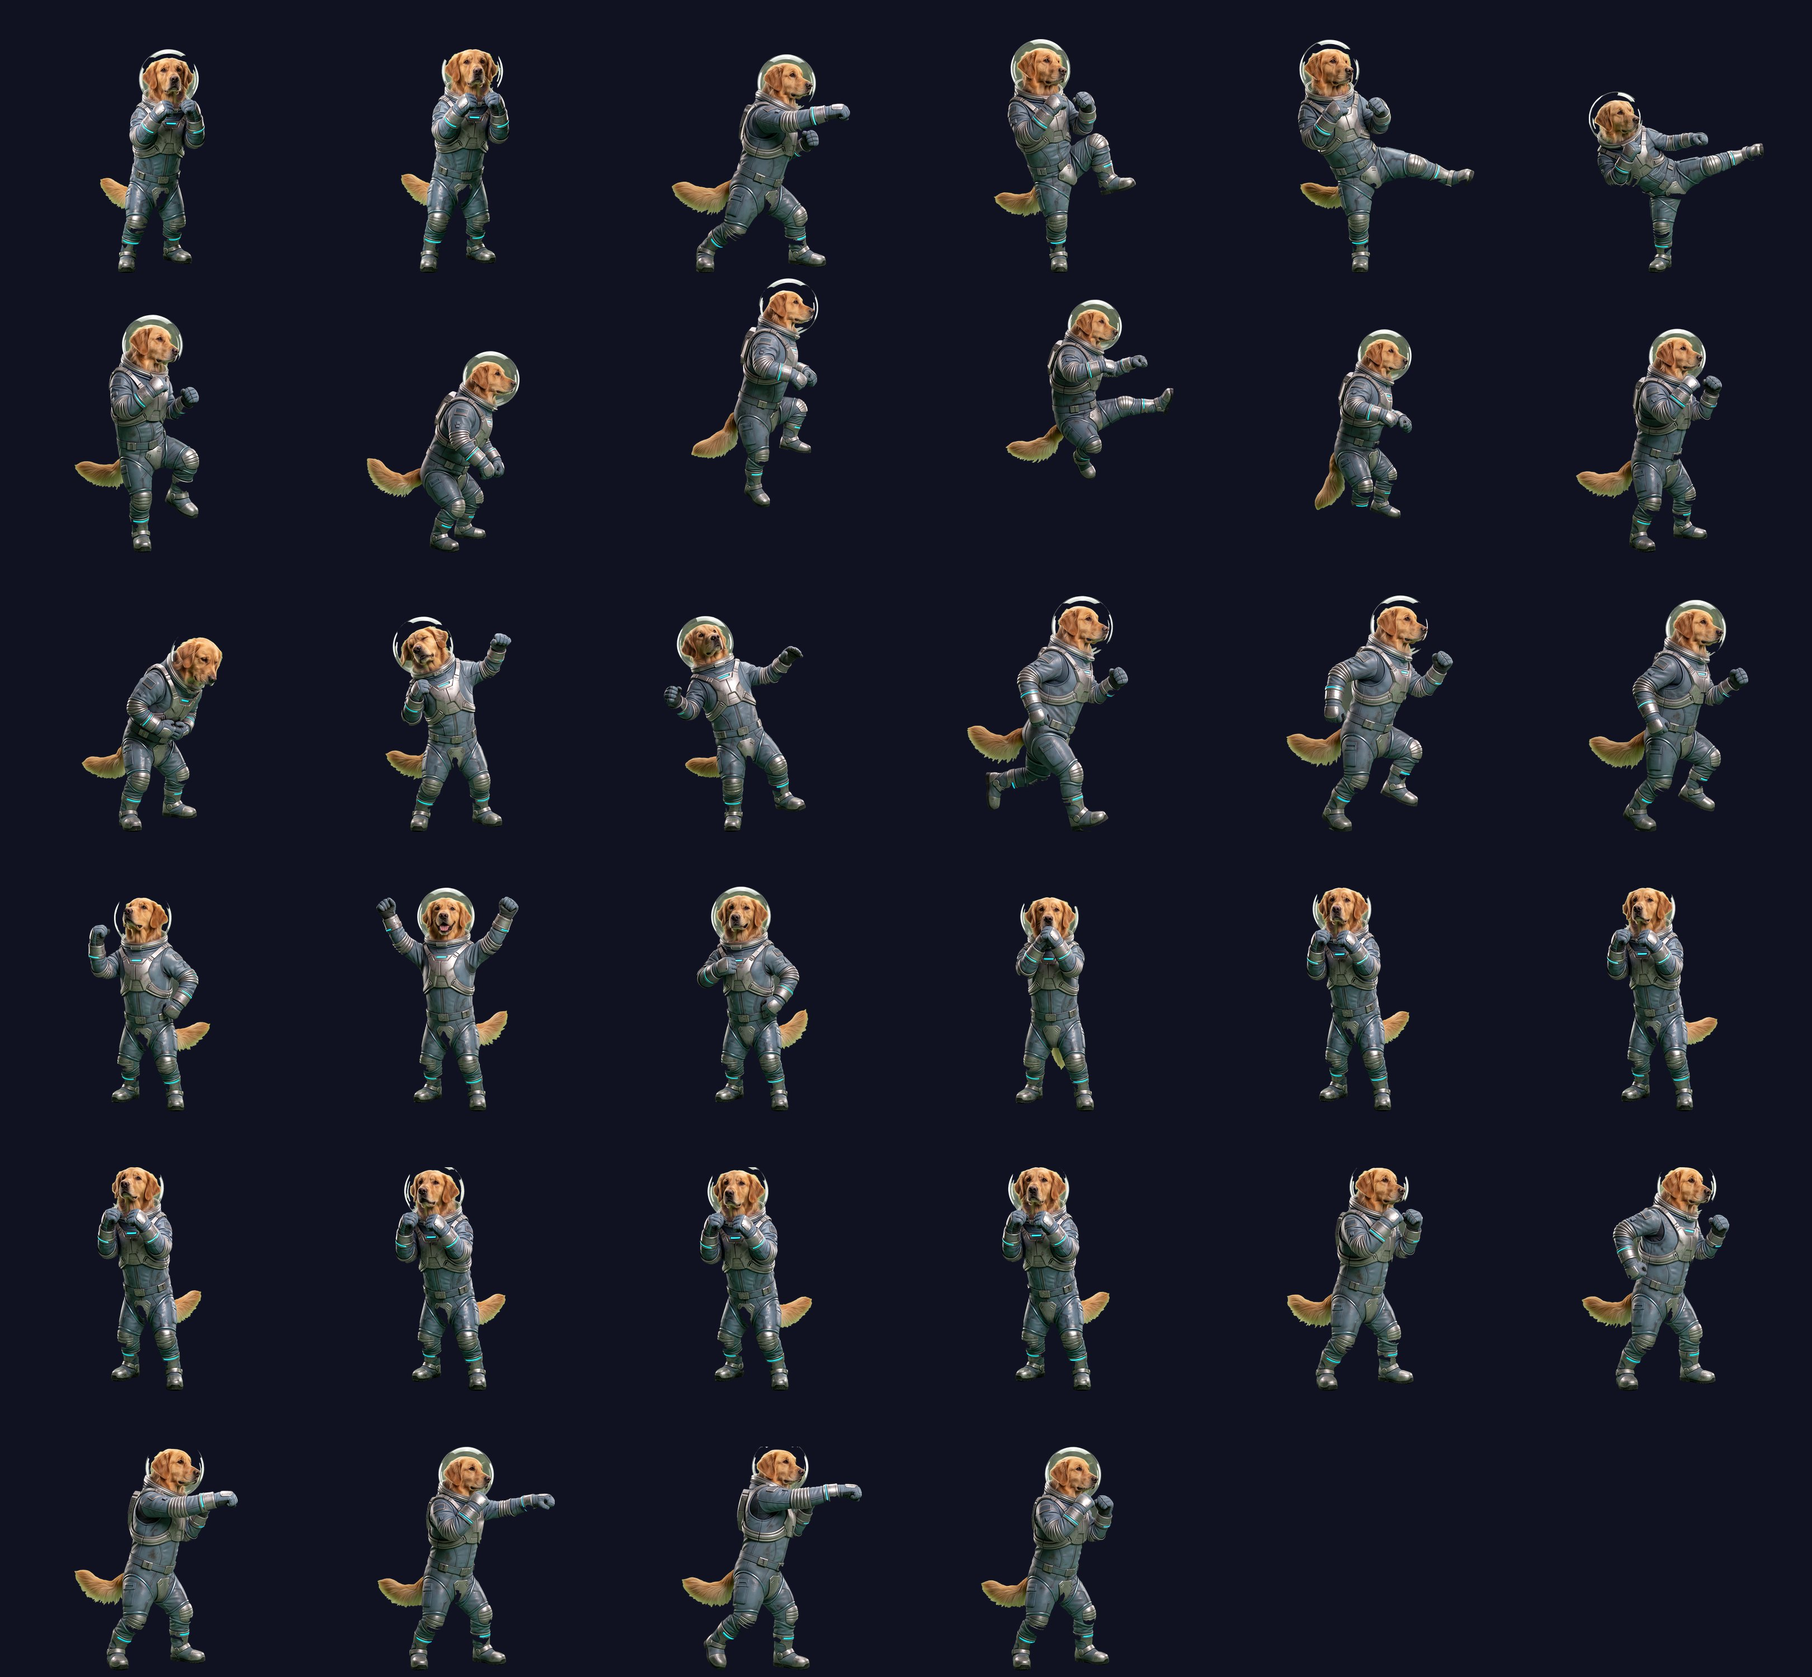
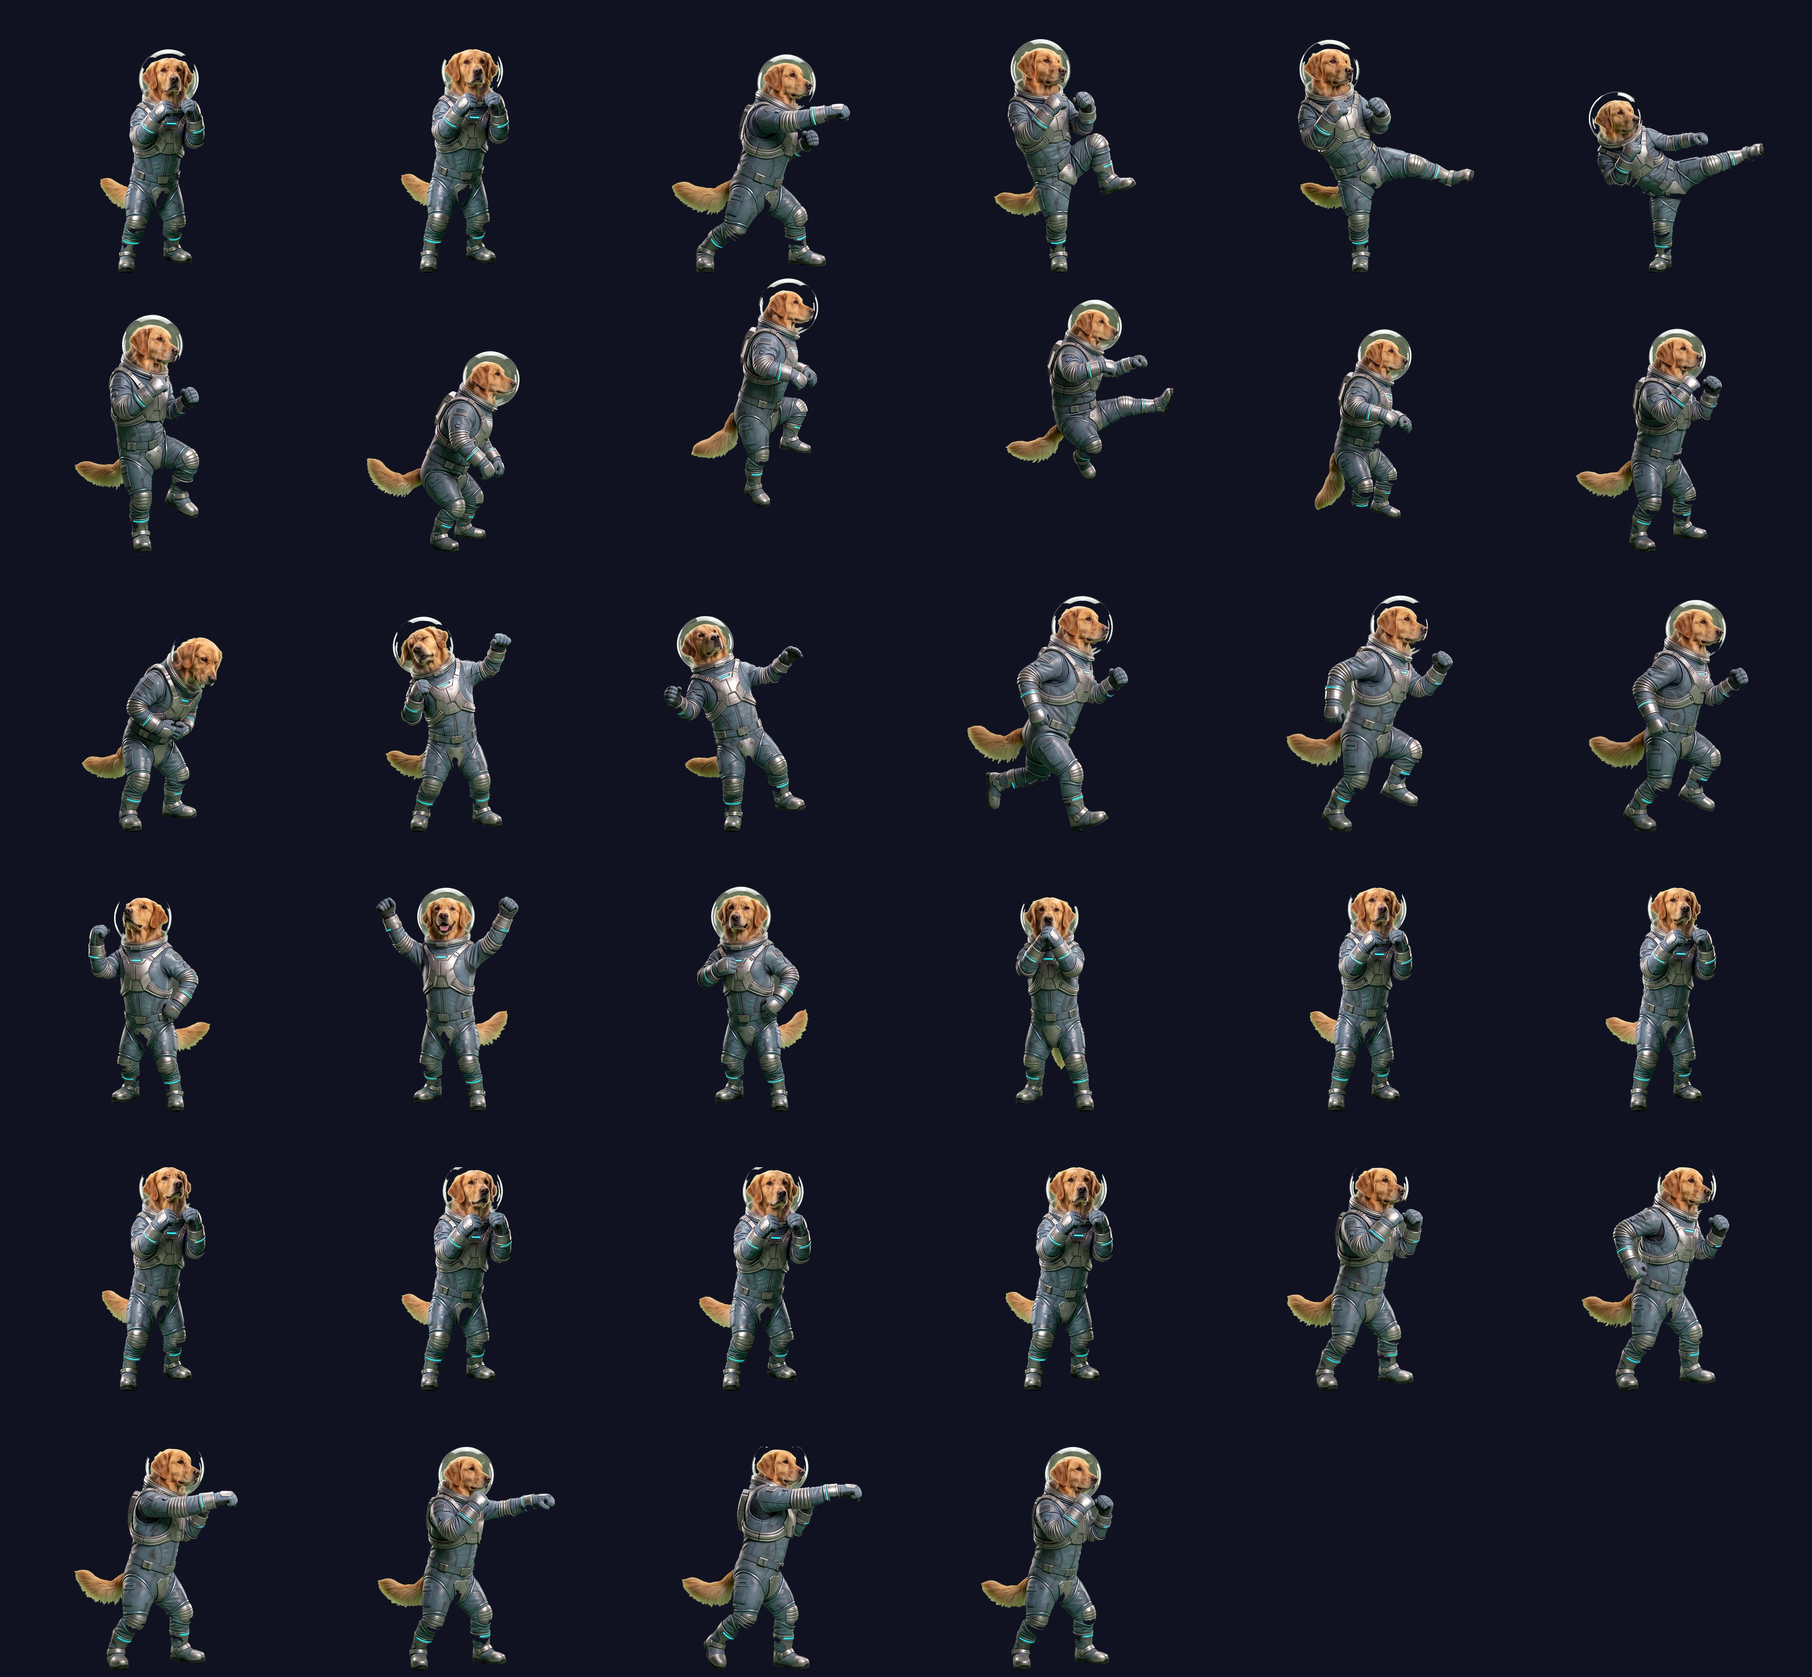
fix(battle-3d): 우주 강아지가 대기 중 보스를 등지던 문제 — idle 프레임 22~27 좌우반전
게임의 대기 상태(attachSpriteBillboard 의 IDLE=[22..27])가 쓰는 프레임은 2차로 추가한
idle 슬로모 시트에서 나오는데, 이 시트만 강아지가 왼쪽(보스 반대편)을 보고 있었다.
기존 flips 는 예전 idle 이던 0·1 만 뒤집고 있어 22~27 은 그대로 통과 → 대기 중 등짐.

- build-real-hero-atlas.py: dog flips 에 22~27 추가 후 dog-real.webp 재생성
- battle-3d.html: dog 스프라이트 ?v=2 → ?v=3 (캐시 갱신)

검증: 아틀라스 프레임 22~27 꼬리 위치가 punch(28~33)와 같은 왼쪽으로 뒤집힘 확인 /
      로컬 :8153 실렌더 캡처에서 강아지가 몸을 오른쪽(보스)으로 향함 /
      npx tsc --noEmit 통과 / test-harness/run.mjs --fast 52 PASS 0 FAIL

diff --git a/cloudflare-deploy/public/battle-3d.html b/cloudflare-deploy/public/battle-3d.html
@@ -659,7 +659,7 @@
       // ⚠ 아틀라스 레이아웃(5x5→6x6)이 바뀌면 ?v= 를 반드시 올릴 것. 안 올리면 기존 사용자가 옛 아틀라스에
       //   새 UV 좌표를 써서 캐릭터가 통째로 깨진다(잘린 몸/엉뚱한 포즈).
       boy: { sprite:'astro-real.webp?v=2', ico:'🧑🚀', name:'우주 소년', desc:'실사 우주비행사 파이터', tint:[1.18,1.16,1.16] },   // 차콜 수트라 어두운 우주에 묻히지 않게 살짝만 리프트
-      dog: { sprite:'dog-real.webp?v=2',   ico:'🐶',        name:'우주 강아지', desc:'실사 우주복 리트리버', tint:[1.10,1.09,1.11] }
+      dog: { sprite:'dog-real.webp?v=3',   ico:'🐶',        name:'우주 강아지', desc:'실사 우주복 리트리버', tint:[1.10,1.09,1.11] }   // v=3: 대기 프레임(22~27)이 보스 반대편을 보던 것 좌우반전
     };
     var heroSkin=(function(){ try{ var v=localStorage.getItem('mangoi_battle_hero'); return (v==='dog'||v==='boy')?v:'boy'; }catch(e){ return 'boy'; } })();
     /* 👾 보스 선택 — 문어 괴물 / 티라노 공룡. 시작 화면에서 고르면 저장되고 다음 스폰부터 적용. attachBossSprite(cfg) 용 전체 설정 포함 */

diff --git a/cloudflare-deploy/build-real-hero-atlas.py b/cloudflare-deploy/build-real-hero-atlas.py
@@ -1,0 +1,280 @@
+"""
+🎬 실사(영화풍) 히어로 아틀라스 빌더 — Higgsfield(nano_banana_pro) 생성 그린스크린 3x2 시트 5장 → 5x5 22프레임 아틀라스
+
+카툰판 build-astro-atlas.py 와 '아틀라스 레이아웃/프레임 순서'는 완전히 동일하다.
+battle-3d.html 의 attachSpriteBillboard(5x5, cell 540x500) 상태머신을 그대로 쓰기 위해서다.
+바뀐 것은 (1) 소스가 실사 시트, (2) 셀이 훨씬 고해상(1365x2048)이라 '축소'라서 선명화가 거의 필요없음,
+(3) 카툰용 metal_enhance(채도-14%·강한 언샵) 대신 아주 약한 클래리티만 적용(실사 질감 보존).
+
+  python build-real-hero-atlas.py            # 둘 다
+  python build-real-hero-atlas.py astro      # 우주인만
+  python build-real-hero-atlas.py dog        # 우주 강아지만
+
+산출: public/<name>-real.webp (게임이 읽는 파일, 알파 포함) + public/<name>-real.png (원본) + _showcase.jpg (눈검증용)
+시트 교체 시 SHEETS 경로만 바꾸고 재실행 + battle-3d.html 의 ?v= 를 올릴 것.
+"""
+import sys
+import numpy as np
+from PIL import Image
+from scipy import ndimage as ndi
+
+D = 'C:/Users/Admin/Desktop/mangoi_develop2-main/cloudflare-deploy/'
+
+CHARS = {
+    'astro': {
+        'out': 'astro-real',
+        'sheets': {
+            'react':    D + 'game_image/real-astro-react.png',
+            'sidekick': D + 'game_image/real-astro-sidekick.png',
+            'flykick':  D + 'game_image/real-astro-flykick.png',
+            'dash':     D + 'game_image/real-astro-dash.png',
+            'victory':  D + 'game_image/real-astro-victory.png',
+            # ↓ 부드러움 전용 시트(2차) — 큰 동작이 아니라 '한 동작을 6등분한 슬로모 프레임'
+            'idle':     D + 'game_image/real-astro-idle.png',
+            'punch':    D + 'game_image/real-astro-punch.png',
+        },
+    },
+    'dog': {
+        'out': 'dog-real',
+        # ⚠ 시트마다 캐릭터가 보는 방향이 다르다. 강아지는 '가드로 복귀'(react·sidekick 6번 셀)만 왼쪽을 보고
+        #   나머지 20프레임은 오른쪽(보스 쪽)을 본다. 하필 그 둘이 idle 프레임(0·1)이라 대기 중에 보스를
+        #   등지고 서 있었다 → 이 두 프레임만 좌우반전. (판단 근거 = 꼬리 위치: 꼬리가 오른쪽이면 왼쪽을 보는 것)
+        # ⚠ 2차로 추가한 idle 슬로모 시트(22~27)도 통째로 왼쪽을 본다. 게임의 대기 상태가 쓰는 게 0·1이 아니라
+        #   바로 이 22~27(attachSpriteBillboard 의 IDLE 배열)이라, 여기를 안 뒤집으면 대기 중에 다시 보스를
+        #   등진다. punch 시트(28~33)는 원본이 오른쪽을 보므로 건드리지 않는다.
+        'flips': {0: True, 1: True, 22: True, 23: True, 24: True, 25: True, 26: True, 27: True},
+        'sheets': {
+            'react':    D + 'game_image/real-dog-react.png',
+            'sidekick': D + 'game_image/real-dog-sidekick.png',
+            'flykick':  D + 'game_image/real-dog-flykick.png',
+            'dash':     D + 'game_image/real-dog-dash.png',
+            'victory':  D + 'game_image/real-dog-victory.png',
+            'idle':     D + 'game_image/real-dog-idle.png',
+            'punch':    D + 'game_image/real-dog-punch.png',
+        },
+    },
+}
+
+GRID = {'cols': 3, 'rows': 2}
+# 스케일 정규화 기준 셀(=똑바로 선 전신 포즈). 이 셀의 키(px)를 서로 맞춰 시트간 덩치 차이를 없앤다.
+REFCELL = {'react': 5, 'sidekick': 5, 'flykick': 5, 'dash': 5, 'victory': 0, 'idle': 0, 'punch': 0}
+
+# (sheet, cell, flip, lift)  lift = 셀높이 대비 공중부양 비율(날아차기용)
+FRAMES = [
+    ('react', 5, False, 0),      # 0  idle guard A
+    ('sidekick', 5, False, 0),   # 1  idle guard B
+    ('dash', 4, False, 0),       # 2  punch strike (lunge)
+    ('sidekick', 0, False, 0),   # 3  sidekick chamber
+    ('sidekick', 2, False, 0),   # 4  sidekick extend
+    ('sidekick', 3, False, 0),   # 5  sidekick peak
+    ('sidekick', 4, False, 0),   # 6  sidekick retract
+    ('flykick', 0, False, 0),    # 7  fly crouch load
+    ('flykick', 1, False, 0.16),  # 8  fly launch
+    ('flykick', 3, False, 0.26),  # 9  fly extend (최고점)
+    ('flykick', 4, False, 0.12),  # 10 fly descend
+    ('flykick', 5, False, 0),    # 11 fly land
+    ('react', 1, False, 0),      # 12 hit body flinch
+    ('react', 2, False, 0),      # 13 hit head snap
+    ('react', 3, False, 0),      # 14 death stagger
+    ('dash', 1, False, 0),       # 15 dash push off
+    ('dash', 2, False, 0),       # 16 dash stride1
+    ('dash', 3, False, 0),       # 17 dash stride2
+    ('victory', 1, False, 0),    # 18 victory fist pump
+    ('victory', 0, False, 0),    # 19 victory v-sign
+    ('victory', 3, False, 0),    # 20 victory chest thump
+    ('react', 0, False, 0),      # 21 high guard block
+    # ===== 2차: '부드러움' 프레임 =====
+    # 큰 동작을 늘린 게 아니라 한 동작을 6등분한 슬로모 프레임이다. 인접 프레임 차이가 작아야
+    # 크로스페이드가 잔상처럼 읽히고 실제로 부드러워진다(차이가 크면 몸이 두 겹으로 보이는 고스트).
+    ('idle', 0, False, 0),       # 22 idle 숨쉬기 1 (기준 가드)
+    ('idle', 1, False, 0),       # 23 idle 2 (들숨 시작)
+    ('idle', 2, False, 0),       # 24 idle 3 (들숨 최고)
+    ('idle', 3, False, 0),       # 25 idle 4 (날숨 시작)
+    ('idle', 4, False, 0),       # 26 idle 5 (최저점)
+    ('idle', 5, False, 0),       # 27 idle 6 (복귀 → 22로 루프)
+    ('punch', 0, False, 0),      # 28 펀치 1 (가드)
+    ('punch', 1, False, 0),      # 29 펀치 2 (와인드업)
+    ('punch', 2, False, 0),      # 30 펀치 3 (출발)
+    ('punch', 3, False, 0),      # 31 펀치 4 (2/3 뻗음)
+    ('punch', 4, False, 0),      # 32 펀치 5 (임팩트)
+    ('punch', 5, False, 0),      # 33 펀치 6 (회수)
+]
+
+COLS_A, ROWS_A = 6, 6            # 34프레임 → 6x6(36칸). ⚠ 바꾸면 battle-3d.html attachSpriteBillboard 의 COLS/ROWS 도 같이!
+CELL_W, CELL_H = 540, 500
+STAND_FRAC = 0.80      # 서있는 캐릭터가 셀 높이에서 차지하는 비율
+BASE_FRAC = 0.975      # 발바닥이 놓이는 셀 내 y 비율
+
+# 그린 키: 배경 excess(G-max(R,B)) 실측 84~96 / 피사체 <=10 → 34 는 갭 한가운데(그림자 진 초록 바닥도 77+라 안전)
+KEY_EX, KEY_G = 34, 55
+
+
+def despill(rgb):
+    """가장자리에 남은 초록끼 제거 — 반드시 키잉 '뒤'에만 적용(먼저 하면 초록이 눌려 키가 실패)."""
+    out = rgb.copy()
+    mx = np.maximum(out[..., 0], out[..., 2])
+    out[..., 1] = np.minimum(out[..., 1], mx + 8)
+    return out
+
+
+def clarity(rgb):
+    """실사 질감 보존용 아주 약한 선명화 + 미세 콘트라스트(카툰판의 강한 언샵/채도감소 없음)."""
+    x = rgb / 255.0
+    blur = ndi.gaussian_filter(x, sigma=(1.1, 1.1, 0))
+    x = np.clip(x + 0.28 * (x - blur), 0, 1)
+    x = np.clip(0.5 + (x - 0.5) * 1.05, 0, 1)
+    return x * 255.0
+
+
+def largest(mask):
+    lbl, n = ndi.label(mask)
+    if n == 0:
+        return mask
+    sizes = ndi.sum(np.ones_like(lbl), lbl, range(1, n + 1))
+    return lbl == (1 + int(np.argmax(sizes)))
+
+
+def fill_small_holes(fig, maxarea):
+    filled = ndi.binary_fill_holes(fig)
+    holes = filled & ~fig
+    lbl, n = ndi.label(holes)
+    if n == 0:
+        return fig
+    out = fig.copy()
+    for i in range(1, n + 1):
+        comp = (lbl == i)
+        if comp.sum() < maxarea:
+            out |= comp
+    return out
+
+
+def key_green(rgb):
+    R, G, B = rgb[..., 0], rgb[..., 1], rgb[..., 2]
+    bg = ((G - np.maximum(R, B)) > KEY_EX) & (G > KEY_G)
+    fig = ~bg
+    fig = largest(fig)
+    fig = fill_small_holes(fig, 40000)          # 셀이 커서(1365x2048) 구멍 허용치도 크게
+    fig = ndi.binary_opening(fig, iterations=2)  # 초록 얼룩/노이즈 제거
+    fig = largest(fig)
+    fig = ndi.binary_erosion(fig, iterations=2)  # 초록 헤일로 1~2px 제거
+    a = ndi.gaussian_filter(fig.astype(np.float32), 1.2)
+    return np.clip((a - 0.30) / 0.42, 0, 1)      # 엣지 크리스프닝(부연 번짐 없이 AA만)
+
+
+# ⚠ 2차 '부드러움' 시트는 생성기가 균일한 3x2 격자를 안 지킨다(인물이 행 경계를 넘거나 셀마다 크기가 다름).
+#   → 이 시트들만 격자 가정을 버리고 **인물을 연결성분으로 자동 검출**하고, 크기도 **프레임별로 정규화**한다.
+#     (제자리 슬로모라 키가 거의 일정 → 프레임별 정규화가 안전하고, 셀 간 덩치 튐을 없애준다)
+AUTO_SHEETS = {'idle', 'punch'}
+_auto_cache = {}
+
+
+def find_figures_auto(A, key, n=6):
+    if key in _auto_cache:
+        return _auto_cache[key]
+    R, G, B = A[..., 0], A[..., 1], A[..., 2]
+    fig = ~(((G - np.maximum(R, B)) > KEY_EX) & (G > KEY_G))
+    fig = ndi.binary_opening(fig, iterations=3)          # 격자선/먼지 제거
+    lbl, k = ndi.label(fig)
+    if k == 0:
+        return []
+    sizes = ndi.sum(np.ones_like(lbl), lbl, range(1, k + 1))
+    objs = ndi.find_objects(lbl)
+    order = np.argsort(sizes)[::-1][:n]
+    boxes = [(objs[i][0].start, objs[i][0].stop, objs[i][1].start, objs[i][1].stop) for i in order]
+    boxes.sort(key=lambda b: (b[0] + b[1]) / 2)          # 세로 중심으로 위/아래 행 분리
+    half = len(boxes) // 2
+    out = []
+    for row in (boxes[:half], boxes[half:]):
+        row = sorted(row, key=lambda b: (b[2] + b[3]) / 2)   # 행 안에서는 가로 순
+        out.extend(row)
+    _auto_cache[key] = out
+    return out
+
+
+def cell_rgb(A, cell):
+    H, W, _ = A.shape
+    c = cell % GRID['cols']
+    r = cell // GRID['cols']
+    cw, ch = W / GRID['cols'], H / GRID['rows']
+    x0, x1 = int(c * cw), int((c + 1) * cw)
+    y0, y1 = int(r * ch), int((r + 1) * ch)
+    ins = 6
+    return A[y0 + ins:y1 - ins, x0 + ins:x1 - ins].copy()
+
+
+def piece(A, cell, flip, sheet=None, cachekey=None):
+    if sheet in AUTO_SHEETS:
+        boxes = find_figures_auto(A, cachekey or sheet)
+        if cell >= len(boxes):
+            return None, None
+        y0, y1, x0, x1 = boxes[cell]
+        pad = 24
+        raw = A[max(0, y0 - pad):y1 + pad, max(0, x0 - pad):x1 + pad].copy()
+    else:
+        raw = cell_rgb(A, cell)
+    a = key_green(raw)
+    rgb = despill(raw)
+    a[:6, :] = 0
+    a[-6:, :] = 0                                # 셀 경계선이 붙는 것 방지
+    ys, xs = np.where(a > 0.2)
+    if len(ys) == 0:
+        return None, None
+    y0, y1, x0, x1 = ys.min(), ys.max() + 1, xs.min(), xs.max() + 1
+    crgb, ca = rgb[y0:y1, x0:x1], a[y0:y1, x0:x1]
+    if flip:
+        crgb, ca = crgb[:, ::-1], ca[:, ::-1]
+    return crgb, ca
+
+
+def build(key):
+    cfg = CHARS[key]
+    sheets = cfg['sheets']
+    imgs = {k: np.asarray(Image.open(v).convert('RGB')).astype(np.float32) for k, v in sheets.items()}
+    refh = {}
+    for sh in sheets:
+        _, ca = piece(imgs[sh], REFCELL[sh], False, sh, key + sh)
+        refh[sh] = ca.shape[0]
+    target = CELL_H * STAND_FRAC
+    atlas = Image.new('RGBA', (COLS_A * CELL_W, ROWS_A * CELL_H), (0, 0, 0, 0))
+    flips = cfg.get('flips', {})
+    for idx, (sh, cell, flip, lift) in enumerate(FRAMES):
+        crgb, ca = piece(imgs[sh], cell, flips.get(idx, flip), sh, key + sh)
+        if crgb is None:
+            print('  !! empty frame', idx, sh, cell)
+            continue
+        # 자동검출 시트는 셀마다 카메라 거리가 흔들려 덩치가 튄다 → 프레임별로 키를 맞춘다(제자리 슬로모라 안전)
+        scale = (target / ca.shape[0]) if sh in AUTO_SHEETS else (target / refh[sh])
+        ph, pw = ca.shape
+        nw, nh = max(1, int(pw * scale)), max(1, int(ph * scale))
+        rp = Image.fromarray(np.dstack([crgb, ca * 255]).astype(np.uint8), 'RGBA').resize((nw, nh), Image.LANCZOS)
+        arr = np.asarray(rp).astype(np.float32)
+        rp = Image.fromarray(np.dstack([clarity(arr[..., :3]), arr[..., 3]]).astype(np.uint8), 'RGBA')
+        na = np.asarray(rp)[:, :, 3]
+        cut = int(nh * 0.80)
+        yy, xx = np.where(na[cut:] > 40)          # 하단 20% 무게중심 = 발 x앵커
+        ax = int(xx.mean()) if len(xx) > 0 else nw // 2
+        yb = np.where(na.max(1) > 40)[0]
+        foot = int(yb.max()) if len(yb) > 0 else nh - 1
+        c, r = idx % COLS_A, idx // COLS_A
+        cx = c * CELL_W + CELL_W // 2
+        baseline = r * CELL_H + int(CELL_H * (BASE_FRAC - lift))
+        atlas.alpha_composite(rp, (cx - ax, baseline - foot))
+
+    # ⚠ png 은 game_image/(소스 보관용)에 둔다 — public/ 는 통째로 배포되므로 2~3MB 짜리 미사용 파일을 넣지 말 것
+    png = D + 'game_image/' + cfg['out'] + '.png'
+    webp = D + 'public/' + cfg['out'] + '.webp'
+    atlas.save(png)
+    atlas.save(webp, format='WEBP', quality=90, method=6)   # 게임이 읽는 파일(알파 지원·PNG 대비 5~8배 작음)
+    show = Image.new('RGBA', atlas.size, (16, 18, 34, 255))
+    show.alpha_composite(atlas)
+    show.convert('RGB').save(D + 'public/' + cfg['out'] + '-showcase.jpg', quality=86)
+    import os
+    print('wrote', webp, atlas.size, 'webp=%.0fKB png=%.0fKB' % (os.path.getsize(webp) / 1024, os.path.getsize(png) / 1024),
+          'refh', {k: int(v) for k, v in refh.items()})
+
+
+if __name__ == '__main__':
+    keys = sys.argv[1:] or list(CHARS.keys())
+    for k in keys:
+        print('==', k)
+        build(k)
